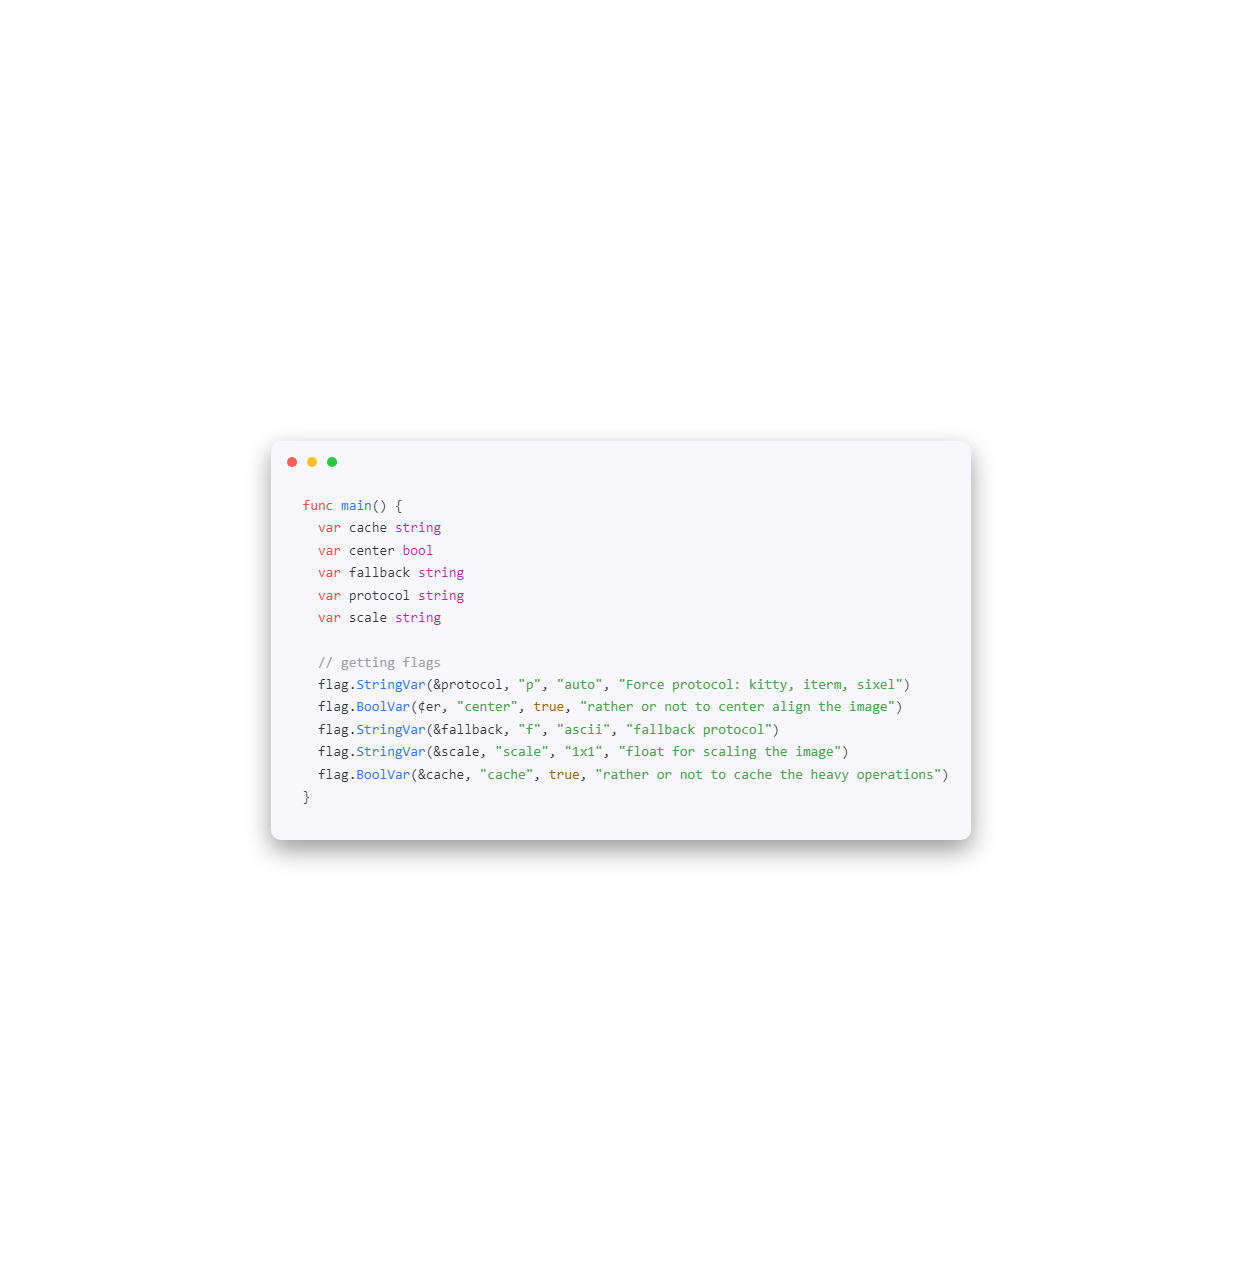
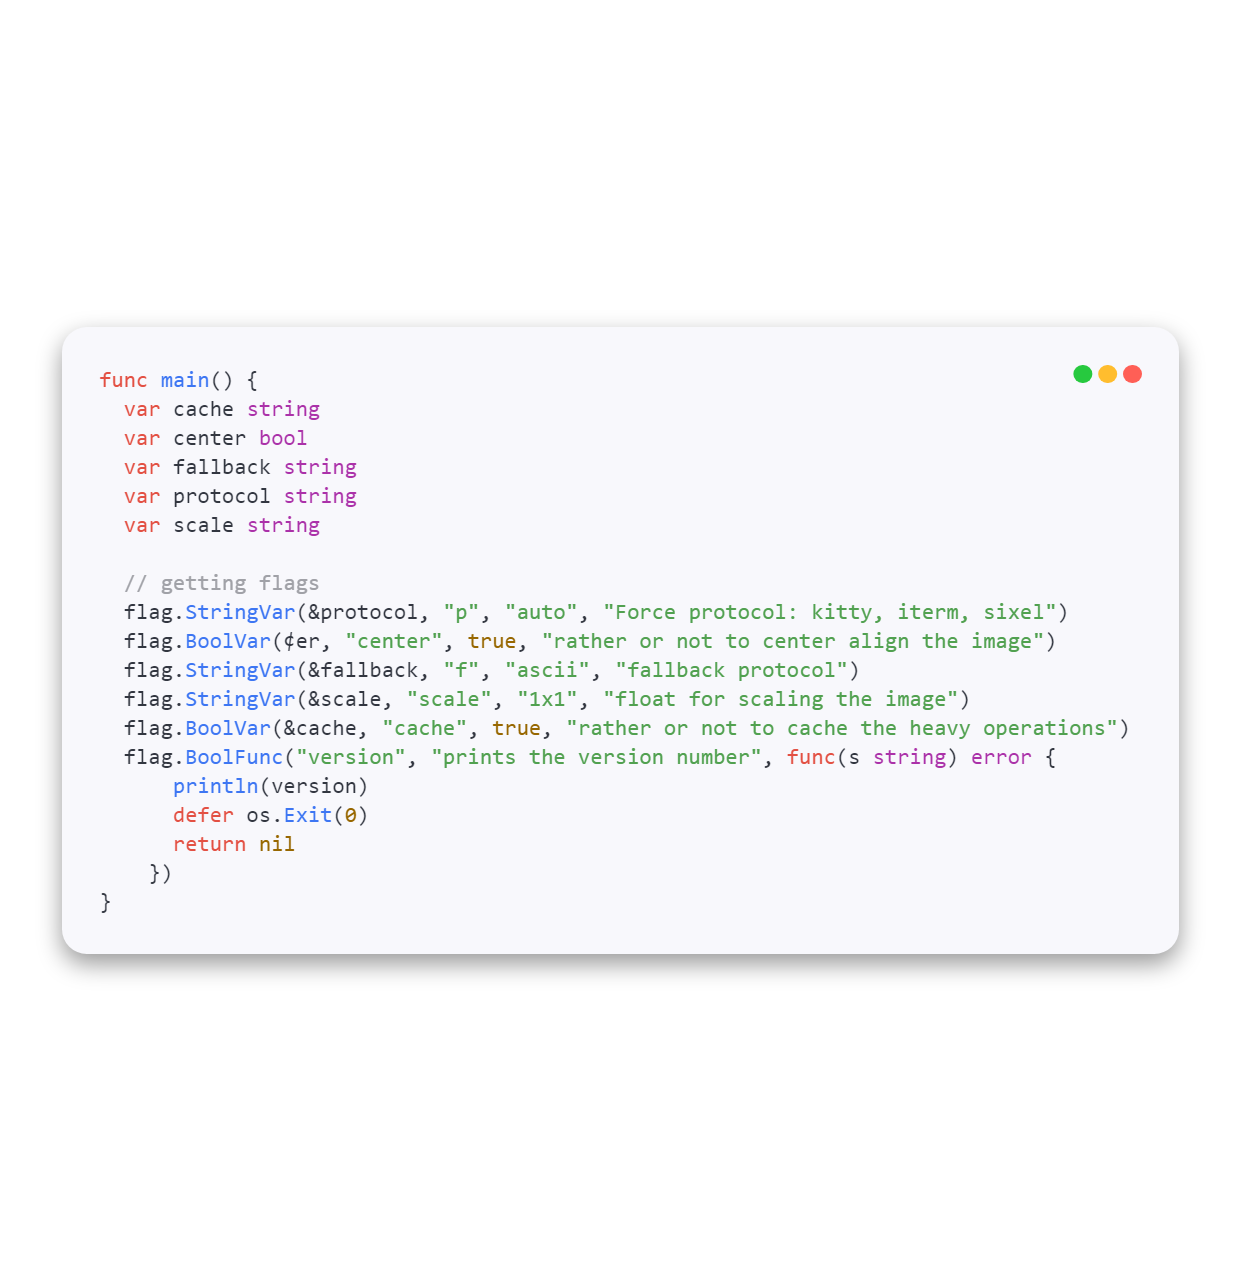
fix: making the thumnnail take more space of the viewport

Changed region(s): [[0.0919, 0.281, 0.888, 0.687], [0.0306, 0.281, 0.9799, 0.7806], [0.8574, 0.281, 0.9186, 0.3123]]

diff --git a/dogs/autumn/code_preview.html b/dogs/autumn/code_preview.html
@@ -22,45 +22,47 @@
       box-sizing: border-box;
     }
 
-    body {
+    html, body {
       background-color: transparent;
       color: var(--fg);
       font-family: 'CaskaydiaCoveNerdFont', monospace;
       margin: 0;
-      padding: 2rem;
+      padding: min(2vw, 2vh);
       display: flex;
       justify-content: center;
       align-items: center;
       height: 100vh;
+      width: 100vw;
     }
 
     .terminal {
       background-color: var(--bg);
-      padding: 2rem;
-      border-radius: 10px;
-      width: 700px;
+      padding: min(3vw, 3vh);
+      border-radius: min(2vw, 2vh);
       box-shadow: 0 10px 25px rgba(0, 0, 0, 0.4);
       position: relative;
+      width: 90vw;
+      height 45vh;
     }
 
-    .terminal::before {
+   .terminal::before {
       content: '';
       position: absolute;
-      top: 1rem;
-      left: 1rem;
-      width: 10px;
-      height: 10px;
+      top: min(3vw, 3vh);
+      right: min(3vw, 3vh);
+      width: 1.5vw;
+      height: 1.5vw;
       background-color: #ff5f56;
       border-radius: 50%;
       box-shadow:
-        20px 0 0 #ffbd2e,
-        40px 0 0 #27c93f;
+        -2vw 0 0 #ffbd2e,
+        -4vw 0 0 #27c93f;
     }
 
     pre {
       margin: 0;
-      font-size: 14px;
-      line-height: 1.6;
+      font-size: 1.8vw;
+      line-height: 1.3;
       white-space: pre;
     }
 
@@ -80,8 +82,7 @@
 </head>
 <body>
   <div class="terminal">
-    <pre><code>
-<span class="keyword">func</span> <span class="function">main</span>() {
+    <pre><code><span class="keyword">func</span> <span class="function">main</span>() {
   <span class="keyword">var</span> cache <span class="type">string</span>
   <span class="keyword">var</span> center <span class="type">bool</span>
   <span class="keyword">var</span> fallback <span class="type">string</span>
@@ -94,6 +95,11 @@
   flag.<span class="function">StringVar</span>(&fallback, <span class="string">"f"</span>, <span class="string">"ascii"</span>, <span class="string">"fallback protocol"</span>)
   flag.<span class="function">StringVar</span>(&scale, <span class="string">"scale"</span>, <span class="string">"1x1"</span>, <span class="string">"float for scaling the image"</span>)
   flag.<span class="function">BoolVar</span>(&cache, <span class="string">"cache"</span>, <span class="constant">true</span>, <span class="string">"rather or not to cache the heavy operations"</span>)
+  flag.<span class="function">BoolFunc</span>(<span class="string">"version"</span>, <span class="string">"prints the version number"</span>, <span class="keyword">func</span>(s <span class="type">string</span>) <span class="type">error</span> {
+      <span class="function">println</span>(version)
+      <span class="keyword">defer</span> os.<span class="function">Exit</span>(<span class="constant">0</span>)
+      <span class="keyword">return</span> <span class="constant">nil</span>
+    })
 }
 </code></pre>
   </div>

diff --git a/dogs/dark/code_preview.html b/dogs/dark/code_preview.html
@@ -22,45 +22,47 @@
       box-sizing: border-box;
     }
 
-    body {
+    html, body {
       background-color: transparent;
       color: var(--fg);
       font-family: 'CaskaydiaCoveNerdFont', monospace;
       margin: 0;
-      padding: 2rem;
+      padding: min(2vw, 2vh);
       display: flex;
       justify-content: center;
       align-items: center;
       height: 100vh;
+      width: 100vw;
     }
 
     .terminal {
       background-color: var(--bg);
-      padding: 2rem;
-      border-radius: 10px;
-      width: 700px;
+      padding: min(3vw, 3vh);
+      border-radius: min(2vw, 2vh);
       box-shadow: 0 10px 25px rgba(0, 0, 0, 0.4);
       position: relative;
+      width: 90vw;
+      height 45vh;
     }
 
-    .terminal::before {
+   .terminal::before {
       content: '';
       position: absolute;
-      top: 1rem;
-      left: 1rem;
-      width: 10px;
-      height: 10px;
+      top: min(3vw, 3vh);
+      right: min(3vw, 3vh);
+      width: 1.5vw;
+      height: 1.5vw;
       background-color: #ff5f56;
       border-radius: 50%;
       box-shadow:
-        20px 0 0 #ffbd2e,
-        40px 0 0 #27c93f;
+        -2vw 0 0 #ffbd2e,
+        -4vw 0 0 #27c93f;
     }
 
     pre {
       margin: 0;
-      font-size: 14px;
-      line-height: 1.6;
+      font-size: 1.8vw;
+      line-height: 1.3;
       white-space: pre;
     }
 
@@ -80,8 +82,7 @@
 </head>
 <body>
   <div class="terminal">
-    <pre><code>
-<span class="keyword">func</span> <span class="function">main</span>() {
+    <pre><code><span class="keyword">func</span> <span class="function">main</span>() {
   <span class="keyword">var</span> cache <span class="type">string</span>
   <span class="keyword">var</span> center <span class="type">bool</span>
   <span class="keyword">var</span> fallback <span class="type">string</span>
@@ -94,6 +95,11 @@
   flag.<span class="function">StringVar</span>(&fallback, <span class="string">"f"</span>, <span class="string">"ascii"</span>, <span class="string">"fallback protocol"</span>)
   flag.<span class="function">StringVar</span>(&scale, <span class="string">"scale"</span>, <span class="string">"1x1"</span>, <span class="string">"float for scaling the image"</span>)
   flag.<span class="function">BoolVar</span>(&cache, <span class="string">"cache"</span>, <span class="constant">true</span>, <span class="string">"rather or not to cache the heavy operations"</span>)
+  flag.<span class="function">BoolFunc</span>(<span class="string">"version"</span>, <span class="string">"prints the version number"</span>, <span class="keyword">func</span>(s <span class="type">string</span>) <span class="type">error</span> {
+      <span class="function">println</span>(version)
+      <span class="keyword">defer</span> os.<span class="function">Exit</span>(<span class="constant">0</span>)
+      <span class="keyword">return</span> <span class="constant">nil</span>
+    })
 }
 </code></pre>
   </div>

diff --git a/dogs/light/code_preview.html b/dogs/light/code_preview.html
@@ -22,45 +22,47 @@
       box-sizing: border-box;
     }
 
-    body {
+    html, body {
       background-color: transparent;
       color: var(--fg);
       font-family: 'CaskaydiaCoveNerdFont', monospace;
       margin: 0;
-      padding: 2rem;
+      padding: min(2vw, 2vh);
       display: flex;
       justify-content: center;
       align-items: center;
       height: 100vh;
+      width: 100vw;
     }
 
     .terminal {
       background-color: var(--bg);
-      padding: 2rem;
-      border-radius: 10px;
-      width: 700px;
+      padding: min(3vw, 3vh);
+      border-radius: min(2vw, 2vh);
       box-shadow: 0 10px 25px rgba(0, 0, 0, 0.4);
       position: relative;
+      width: 90vw;
+      height 45vh;
     }
 
-    .terminal::before {
+   .terminal::before {
       content: '';
       position: absolute;
-      top: 1rem;
-      left: 1rem;
-      width: 10px;
-      height: 10px;
+      top: min(3vw, 3vh);
+      right: min(3vw, 3vh);
+      width: 1.5vw;
+      height: 1.5vw;
       background-color: #ff5f56;
       border-radius: 50%;
       box-shadow:
-        20px 0 0 #ffbd2e,
-        40px 0 0 #27c93f;
+        -2vw 0 0 #ffbd2e,
+        -4vw 0 0 #27c93f;
     }
 
     pre {
       margin: 0;
-      font-size: 14px;
-      line-height: 1.6;
+      font-size: 1.8vw;
+      line-height: 1.3;
       white-space: pre;
     }
 
@@ -80,8 +82,7 @@
 </head>
 <body>
   <div class="terminal">
-    <pre><code>
-<span class="keyword">func</span> <span class="function">main</span>() {
+    <pre><code><span class="keyword">func</span> <span class="function">main</span>() {
   <span class="keyword">var</span> cache <span class="type">string</span>
   <span class="keyword">var</span> center <span class="type">bool</span>
   <span class="keyword">var</span> fallback <span class="type">string</span>
@@ -94,6 +95,11 @@
   flag.<span class="function">StringVar</span>(&fallback, <span class="string">"f"</span>, <span class="string">"ascii"</span>, <span class="string">"fallback protocol"</span>)
   flag.<span class="function">StringVar</span>(&scale, <span class="string">"scale"</span>, <span class="string">"1x1"</span>, <span class="string">"float for scaling the image"</span>)
   flag.<span class="function">BoolVar</span>(&cache, <span class="string">"cache"</span>, <span class="constant">true</span>, <span class="string">"rather or not to cache the heavy operations"</span>)
+  flag.<span class="function">BoolFunc</span>(<span class="string">"version"</span>, <span class="string">"prints the version number"</span>, <span class="keyword">func</span>(s <span class="type">string</span>) <span class="type">error</span> {
+      <span class="function">println</span>(version)
+      <span class="keyword">defer</span> os.<span class="function">Exit</span>(<span class="constant">0</span>)
+      <span class="keyword">return</span> <span class="constant">nil</span>
+    })
 }
 </code></pre>
   </div>

diff --git a/dogs/spring/code_preview.html b/dogs/spring/code_preview.html
@@ -22,45 +22,47 @@
       box-sizing: border-box;
     }
 
-    body {
+    html, body {
       background-color: transparent;
       color: var(--fg);
       font-family: 'CaskaydiaCoveNerdFont', monospace;
       margin: 0;
-      padding: 2rem;
+      padding: min(2vw, 2vh);
       display: flex;
       justify-content: center;
       align-items: center;
       height: 100vh;
+      width: 100vw;
     }
 
     .terminal {
       background-color: var(--bg);
-      padding: 2rem;
-      border-radius: 10px;
-      width: 700px;
+      padding: min(3vw, 3vh);
+      border-radius: min(2vw, 2vh);
       box-shadow: 0 10px 25px rgba(0, 0, 0, 0.4);
       position: relative;
+      width: 90vw;
+      height 45vh;
     }
 
-    .terminal::before {
+   .terminal::before {
       content: '';
       position: absolute;
-      top: 1rem;
-      left: 1rem;
-      width: 10px;
-      height: 10px;
+      top: min(3vw, 3vh);
+      right: min(3vw, 3vh);
+      width: 1.5vw;
+      height: 1.5vw;
       background-color: #ff5f56;
       border-radius: 50%;
       box-shadow:
-        20px 0 0 #ffbd2e,
-        40px 0 0 #27c93f;
+        -2vw 0 0 #ffbd2e,
+        -4vw 0 0 #27c93f;
     }
 
     pre {
       margin: 0;
-      font-size: 14px;
-      line-height: 1.6;
+      font-size: 1.8vw;
+      line-height: 1.3;
       white-space: pre;
     }
 
@@ -80,8 +82,7 @@
 </head>
 <body>
   <div class="terminal">
-    <pre><code>
-<span class="keyword">func</span> <span class="function">main</span>() {
+    <pre><code><span class="keyword">func</span> <span class="function">main</span>() {
   <span class="keyword">var</span> cache <span class="type">string</span>
   <span class="keyword">var</span> center <span class="type">bool</span>
   <span class="keyword">var</span> fallback <span class="type">string</span>
@@ -94,6 +95,11 @@
   flag.<span class="function">StringVar</span>(&fallback, <span class="string">"f"</span>, <span class="string">"ascii"</span>, <span class="string">"fallback protocol"</span>)
   flag.<span class="function">StringVar</span>(&scale, <span class="string">"scale"</span>, <span class="string">"1x1"</span>, <span class="string">"float for scaling the image"</span>)
   flag.<span class="function">BoolVar</span>(&cache, <span class="string">"cache"</span>, <span class="constant">true</span>, <span class="string">"rather or not to cache the heavy operations"</span>)
+  flag.<span class="function">BoolFunc</span>(<span class="string">"version"</span>, <span class="string">"prints the version number"</span>, <span class="keyword">func</span>(s <span class="type">string</span>) <span class="type">error</span> {
+      <span class="function">println</span>(version)
+      <span class="keyword">defer</span> os.<span class="function">Exit</span>(<span class="constant">0</span>)
+      <span class="keyword">return</span> <span class="constant">nil</span>
+    })
 }
 </code></pre>
   </div>
